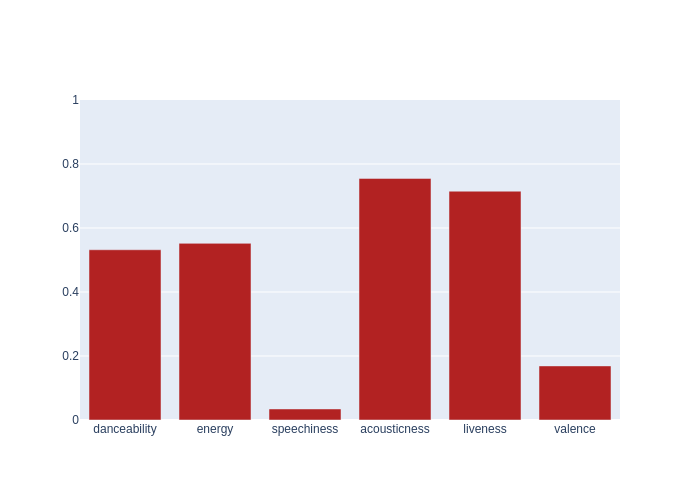
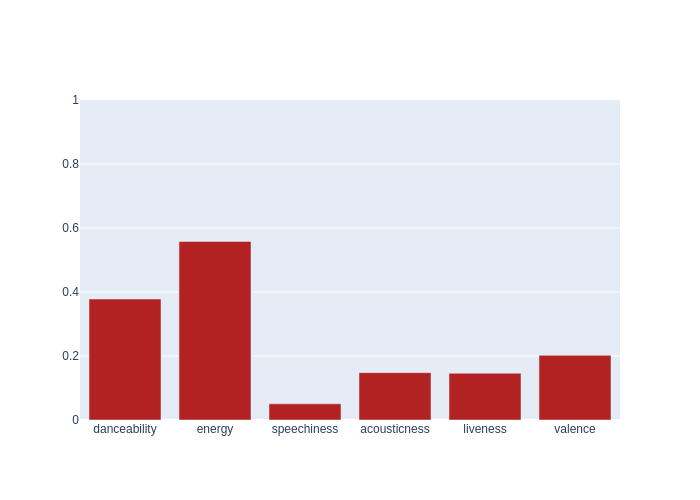
Automated README update

diff --git a/README.md b/README.md
@@ -4,7 +4,7 @@ Automated music metrics for fun, updated hourly.
 
 ## Spotify
 
-- currently listening to **Black Atlass - If They Only Knew**
+- currently listening to **Black Atlass - Jewels**
 
 - **845** liked songs
 - **131** playlists
